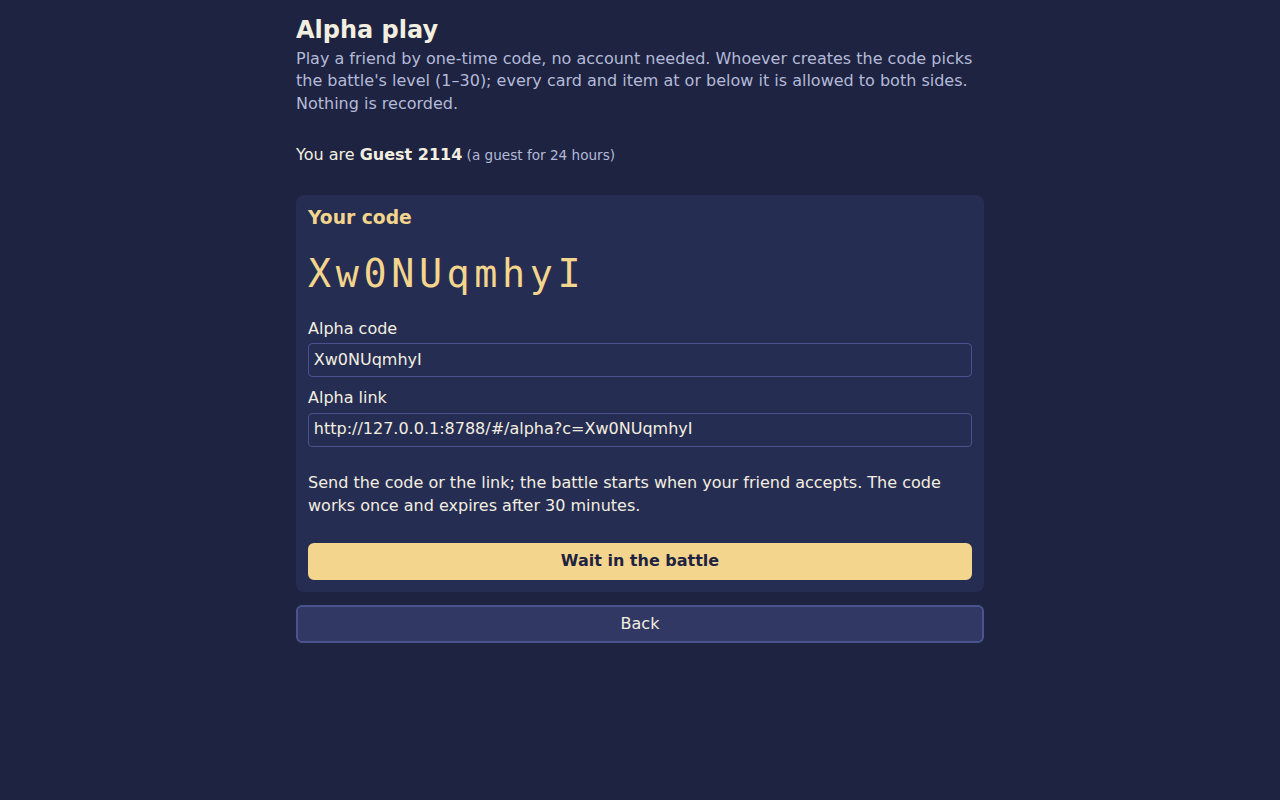
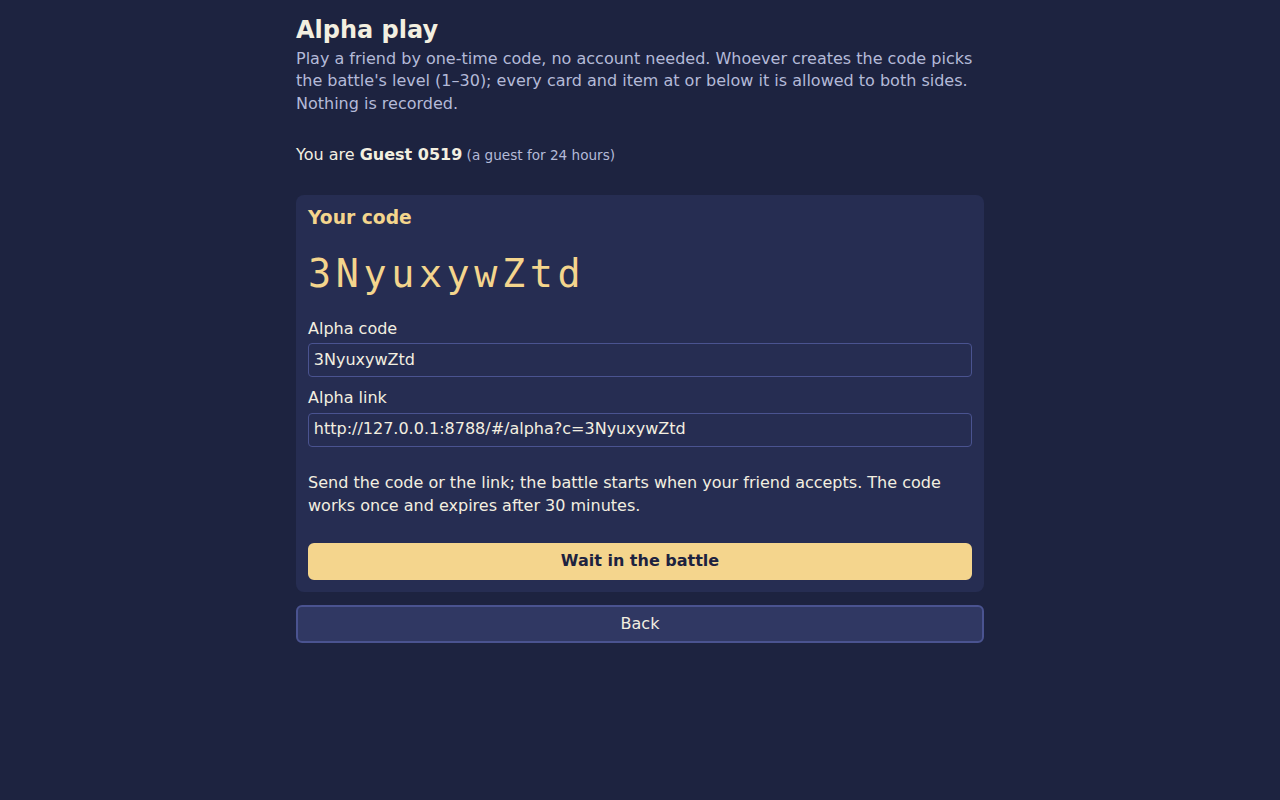
docs: PROGRESS A2b evidence with the full online suite (11 passed); smaller phone screenshot
Claude-Session: https://claude.ai/code/session_01PkUssx9FVhB3HH91fp4bEt

diff --git a/PROGRESS.md b/PROGRESS.md
@@ -221,7 +221,7 @@ The proposal behind the list is in the chat record of 2026-10-09 and summarised 
   Vite dev proxy answers `{ error: 'no_server' }` with status 200 when no Worker runs so the title's
   probe logs no browser error (the local e2e asserts a clean console). `pnpm check` 1,594 unit tests
   (alpha helpers 5), `format:check` clean; local e2e title, loadouts and settings specs 8/8;
-  online e2e `alpha.spec.ts` 1 passed (the full suite's re-run is recorded below once it finishes); `docs/screenshots` 01-title, 08-mobile-title, 20-alpha-create, 21-alpha-code and
+  `pnpm test:e2e:online` with the screenshot spec 11 passed (2.0 min); `docs/screenshots` 01-title, 08-mobile-title, 20-alpha-create, 21-alpha-code and
   22-alpha-join-mobile refreshed from the running Worker (`e2e-online/screenshots.spec.ts`, on demand
   with `CT_SCREENSHOTS=1`).
 
